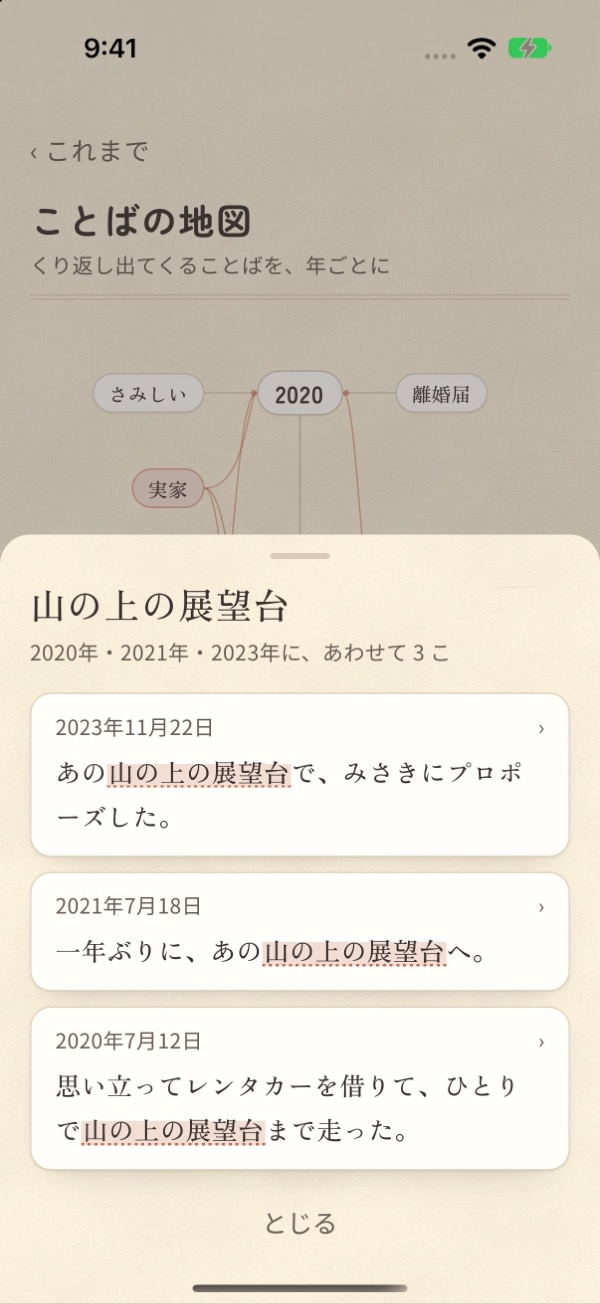
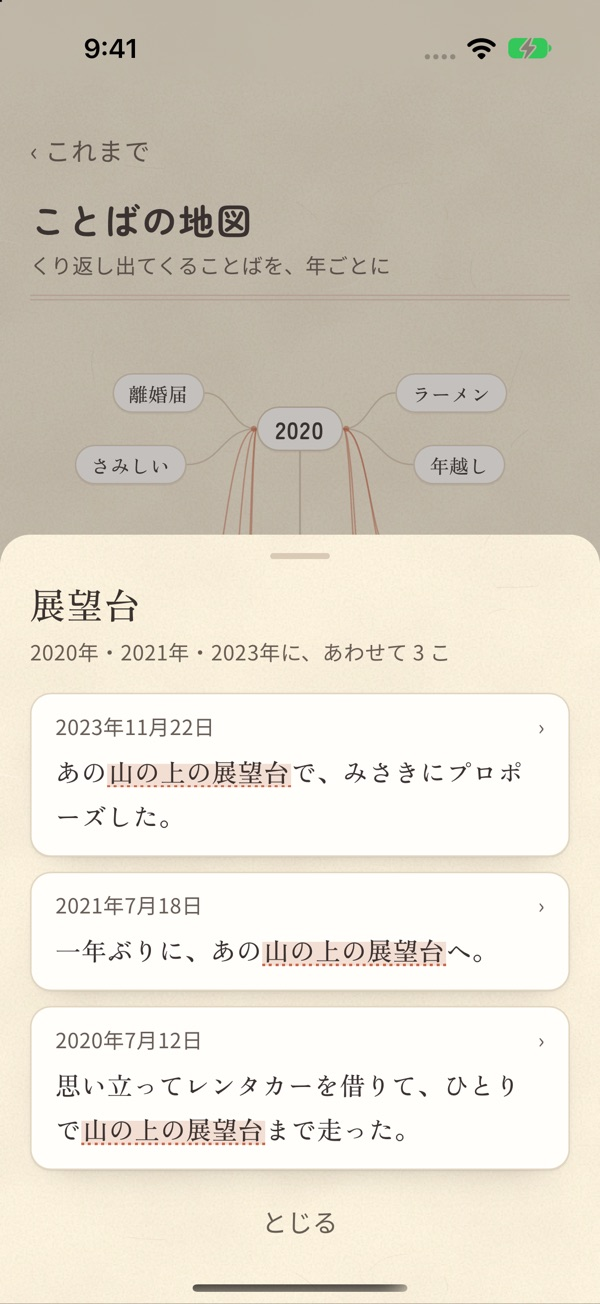
README の地図と言葉のシートの写しを撮り直す（50 語の地図、言葉は「展望台」）。動画の引き継ぎ資料の地図の説明を合わせる

diff --git a/docs/video-brief.md b/docs/video-brief.md
@@ -44,8 +44,10 @@
 
 **11/7 夜に足した 2 つ**（取り込み済み。Simulator で確かめた。実機には 11/7 夜に入れた）:
 - **ことばの地図**（これまでの見出しの右「ことばの地図 ›」から入る）: 年を縦の背骨に、その年に出てくる言葉が周りに、年をまたぐ言葉から朱の細い糸が年へ渡る。
-  言葉は Claude が選び、数と引用は Worker が本文から数える。物語のデータでは 7 秒ほどで集まり、「山の上の展望台」が 2020 と 2023 をつなぐ。
-  言葉を押すと「2020年・2023年に、あわせて 2 こ」と、その一文が原文のまま印つきで並ぶ。初めては「ことばを集める」を押す（実機の DB では一度押しておく）。
+  言葉は Claude が選び、数と引用は Worker が本文から数える。物語のデータでは 12 秒ほどで 50 語ほど集まり（11/8 に地図を濃くした。ADR-0014 の 5 節）、
+  雪（2020・2021・2022）、手袋（2022・2024）、展望台（2020・2021・2023）のような、年を隔てた言葉が糸で結ばれる。
+  言葉を押すと「2020年・2021年・2023年に、あわせて 3 こ」と、その一文が原文のまま印つきで並ぶ。初めては「ことばを集める」を押す（実機の DB では一度押しておく）。
+  言葉の名前は集めるたびに Claude が選ぶので、「展望台」が「山の上の展望台」になることもある。撮る前に一度「集めなおす」を押して、出た名前で台本を合わせる。
   2020 年の周りに「離婚届」、2024 年に「役所」「婚姻届」が出ることがある
 - **年月でたどる**（これまで）: 一覧が年月ごとに区切られ、左上に「2026年 11月 ⌄」の札が浮かぶ。押すとシート「年月でたどる」で、年ごとの 12 か月のマス（件数つき、無い月は薄く）から選んでその月へ。上に「↑ いちばん新しいひとことへ」
 - README の写し: docs/images/（書く・札・つながり・年月でたどる・ことばの地図・言葉のシート）
@@ -111,7 +113,7 @@
 | 0:55–1:20 | きょう → 札 | 展望台の写真を添えてドライブの一文 | ひとりの夏とプロポーズ。写真から「〜でしょうか」 |
 | 1:20–1:30 | きょう | シャンプーの一文 | 関係なければ何も言わない |
 | 1:30–1:50 | つながり | 展望台の組・七夕の組 | ふたつの日が糸で結ばれていく |
-| 1:50–2:05 | これまで / ことばの地図 | 年月でたどって 2023 年 11 月へ。ことばの地図で「山の上の展望台」を押す | あの頃の言葉をたどれる。2020 年と 2023 年の一文が並ぶ |
+| 1:50–2:05 | これまで / ことばの地図 | 年月でたどって 2023 年 11 月へ。ことばの地図で「展望台」（集めた名前による）を押す | あの頃の言葉をたどれる。2020 年・2021 年・2023 年の一文が並ぶ |
 | 2:05–2:20 | きょう → 札 | お茶の一文 | 眠れない夜が続いた春から、今夜まで |
 | 2:20–2:45 | 画面の外 | Claude の使い方 | 作品の中と開発の中 |
 | 2:45–2:55 | きょう | 閉じる | 締めのことば（README の結び） |

diff --git a/README.md b/README.md
@@ -14,7 +14,7 @@ Built with Claude: Japan 2026 ハッカソンの個人開発（開発期間 2026
 
 | 年月でたどる | ことばの地図 | ことばを押すと |
 |---|---|---|
-| <img src="docs/images/past.jpg" width="220" alt="これまで。2023年11月へたどり、年月の札が左上に浮かぶ"> | <img src="docs/images/words.jpg" width="220" alt="ことばの地図。年を縦に並べ、年ごとの言葉と、年をまたぐ言葉を細い糸で結ぶ"> | <img src="docs/images/words-sheet.jpg" width="220" alt="「山の上の展望台」を押すと、2020年・2021年・2023年の一文が原文のまま並ぶ"> |
+| <img src="docs/images/past.jpg" width="220" alt="これまで。2023年11月へたどり、年月の札が左上に浮かぶ"> | <img src="docs/images/words.jpg" width="220" alt="ことばの地図。年を縦に並べ、年ごとの言葉と、年をまたぐ言葉を細い糸で結ぶ"> | <img src="docs/images/words-sheet.jpg" width="220" alt="「展望台」を押すと、2020年・2021年・2023年の一文が原文のまま並ぶ"> |
 
 写っているのは撮影用の架空のデータ（demo/fixtures/story.sql）。iPhone 17 の Simulator で撮った。
 
